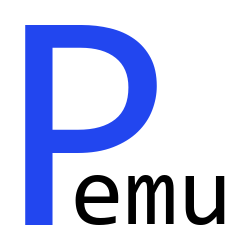
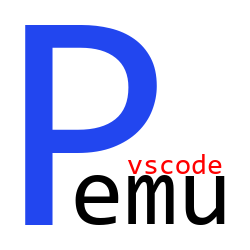
Added Setting to specify Goto Error's Reveal Type
Added Setting to specify Goto Error's Reveal Type
Changed Extension's Icon

Changed region(s): [[0.504, 0.616, 0.896, 0.7]]

diff --git a/pemu.js b/pemu.js
@@ -287,7 +287,10 @@ const COMMANDS = {
                             
                             const textEditor = await vscode.window.showTextDocument(sourceDocument, false);
                             textEditor.selections = [ new vscode.Selection(errorPos, errorPos) ];
-                            textEditor.revealRange(new vscode.Range(errorPos, errorPos), vscode.TextEditorRevealType.InCenter);
+                            textEditor.revealRange(
+                                new vscode.Range(errorPos, errorPos),
+                                vscode.TextEditorRevealType[settings.get("gotoErrorRevealType").replace(/\s+/, "")]
+                            );
                         }
                     }
                 }

diff --git a/CHANGELOG.md b/CHANGELOG.md
@@ -3,6 +3,16 @@
 
 All notable changes to the PEMU Language Extension will be documented in this file.
 
+## [0.3.1]
+
+### Added
+
+ - Setting to specify Goto Error's Reveal Type
+
+### Changed
+
+ - Extension's Icon
+
 ## [0.3.0]
 
 ### Added
